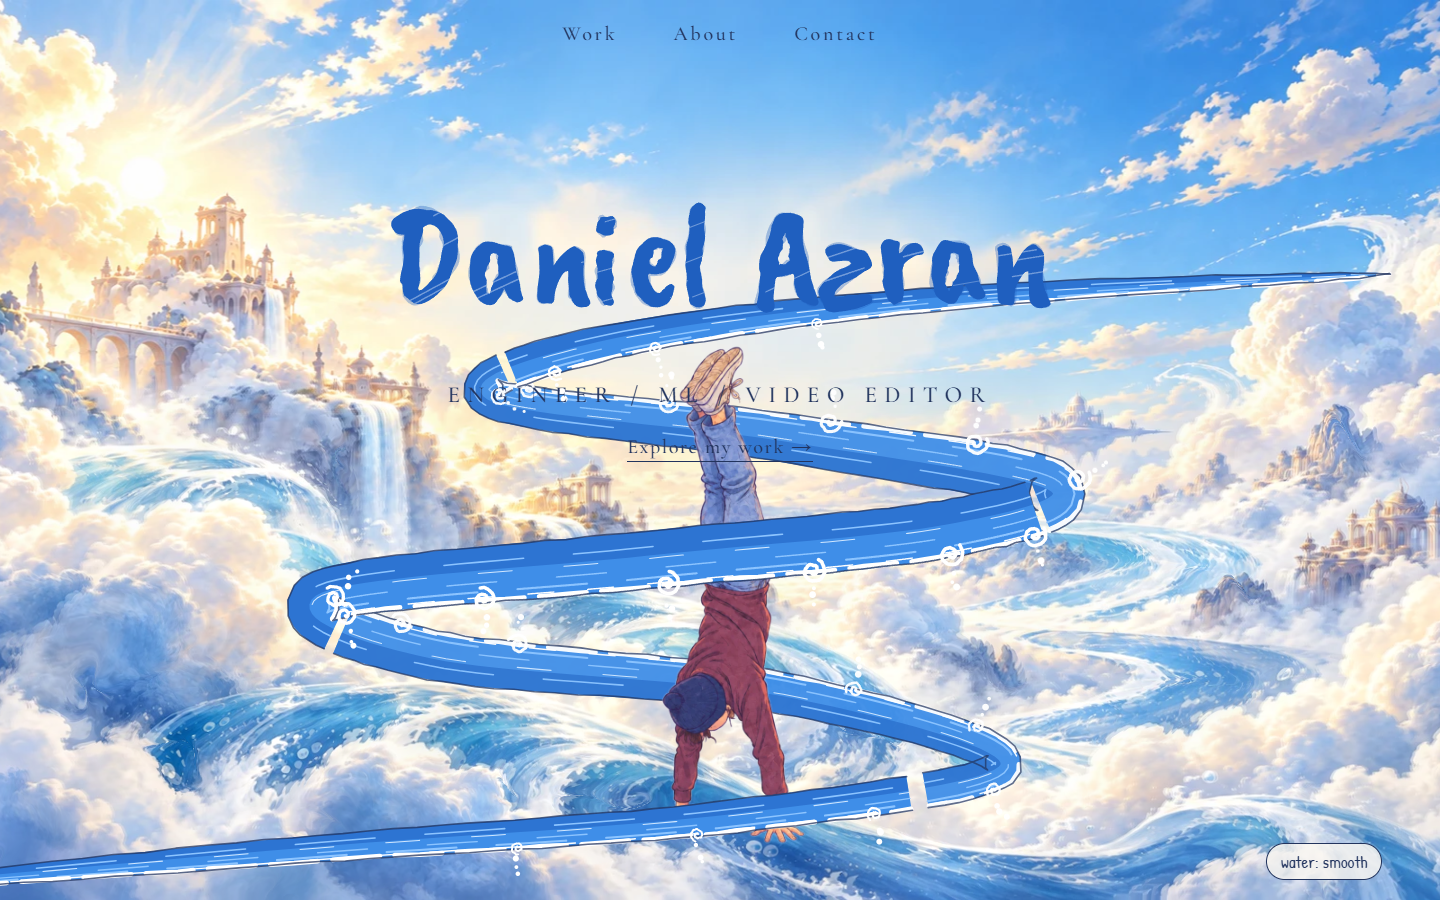
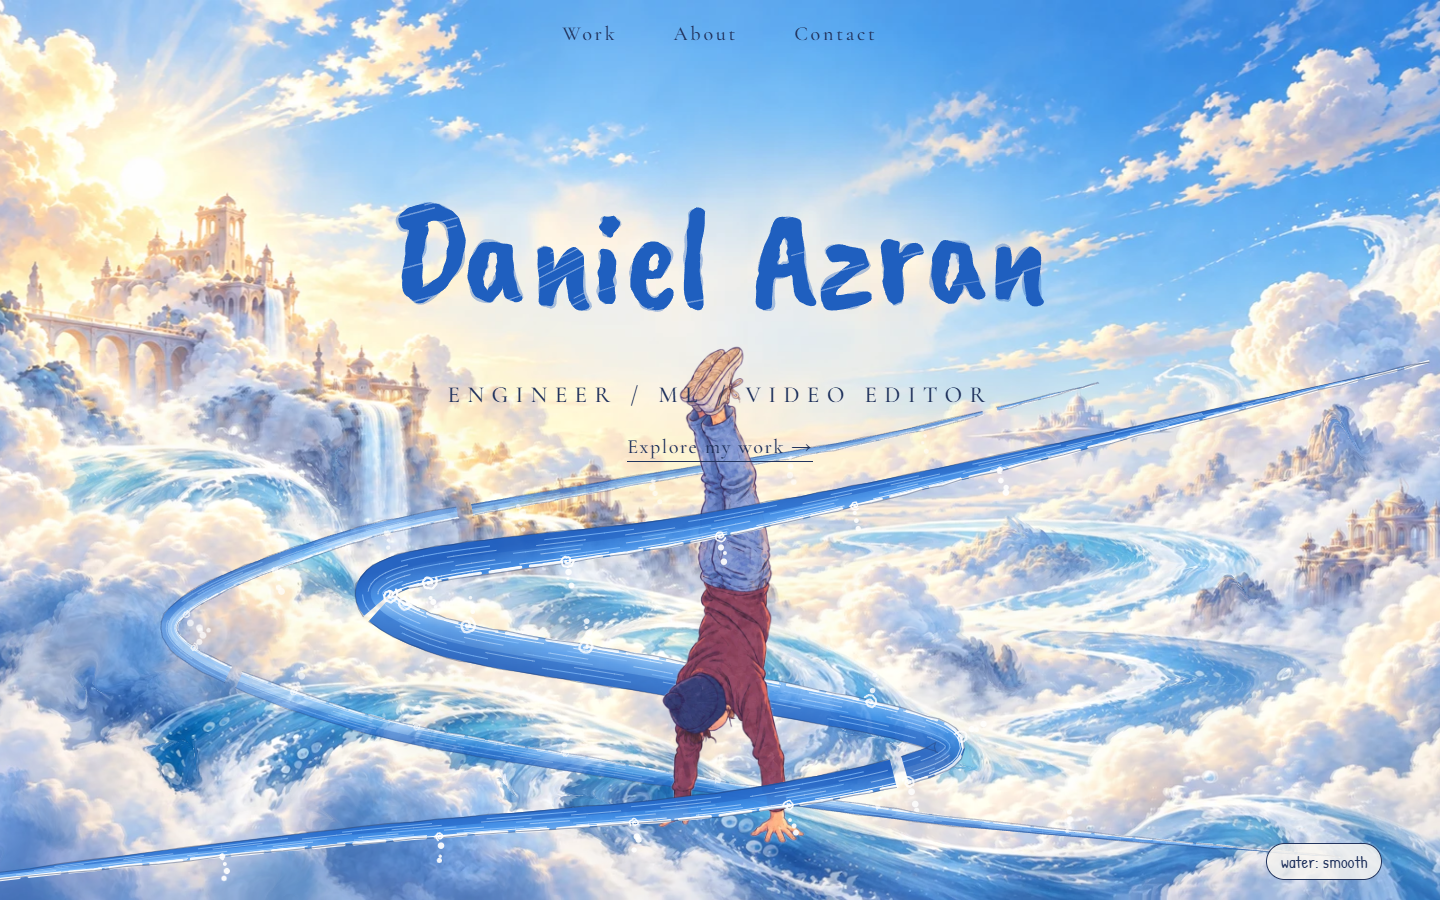
Move v5 figure right of a left-aligned title

diff --git a/redesign/drafts/v5-elemental/style.css b/redesign/drafts/v5-elemental/style.css
@@ -29,7 +29,7 @@ img,video{display:block;max-width:100%}
 #ribbonBack{z-index:1}#ribbonFront{z-index:3}
 #trail{position:absolute;inset:0;width:100%;height:100%;z-index:6;pointer-events:none}
 
-.title{position:absolute;z-index:5;left:0;right:0;top:17vh;text-align:center;pointer-events:none}
+.title{position:absolute;z-index:5;left:var(--gutter);top:20vh;text-align:left;pointer-events:none}
 .title h1{font-size:clamp(78px,10vw,170px)}
 .title p{font-family:var(--serif);font-size:clamp(18px,1.6vw,26px);letter-spacing:.32em;margin-top:6px}
 .title .cta{pointer-events:auto;display:inline-block;margin-top:26px;font-family:var(--serif);font-size:20px;letter-spacing:.08em;border-bottom:1.5px solid var(--slate);padding-bottom:2px}
@@ -71,6 +71,7 @@ img,video{display:block;max-width:100%}
 @keyframes spin{to{transform:rotate(360deg)}}
 
 @media (max-width:820px){
+  .title{left:0;right:0;text-align:center}
   .nav{gap:22px;font-size:16px}
   .title{top:12vh}.title h1{font-size:19vw}
   .stop{left:16px!important;right:16px!important;top:auto!important;bottom:16px;width:auto}

diff --git a/redesign/drafts/v5-elemental/app.js b/redesign/drafts/v5-elemental/app.js
@@ -20,7 +20,8 @@ if (!reduce) setInterval(() => { figs[fk].classList.remove('on'); fk = (fk + 1 +
 function layout() {
   const H = journey.clientHeight, W = journey.clientWidth;
   const h = Math.min(H * .6, W * .9), w = h * 2 / 3;
-  Object.assign(figEl.style, { height: h + 'px', width: w + 'px', left: (W - w) / 2 + 'px', top: (H - h - H * .03) + 'px' });
+  const cx = W > 820 ? W * .66 : W * .5;   // right of the centred title on desktop
+  Object.assign(figEl.style, { height: h + 'px', width: w + 'px', left: (cx - w / 2) + 'px', top: (H - h - H * .03) + 'px' });
 }
 layout(); addEventListener('resize', layout);
 const figBox = () => ({ x: figEl.offsetLeft, y: figEl.offsetTop, w: figEl.offsetWidth, h: figEl.offsetHeight });
